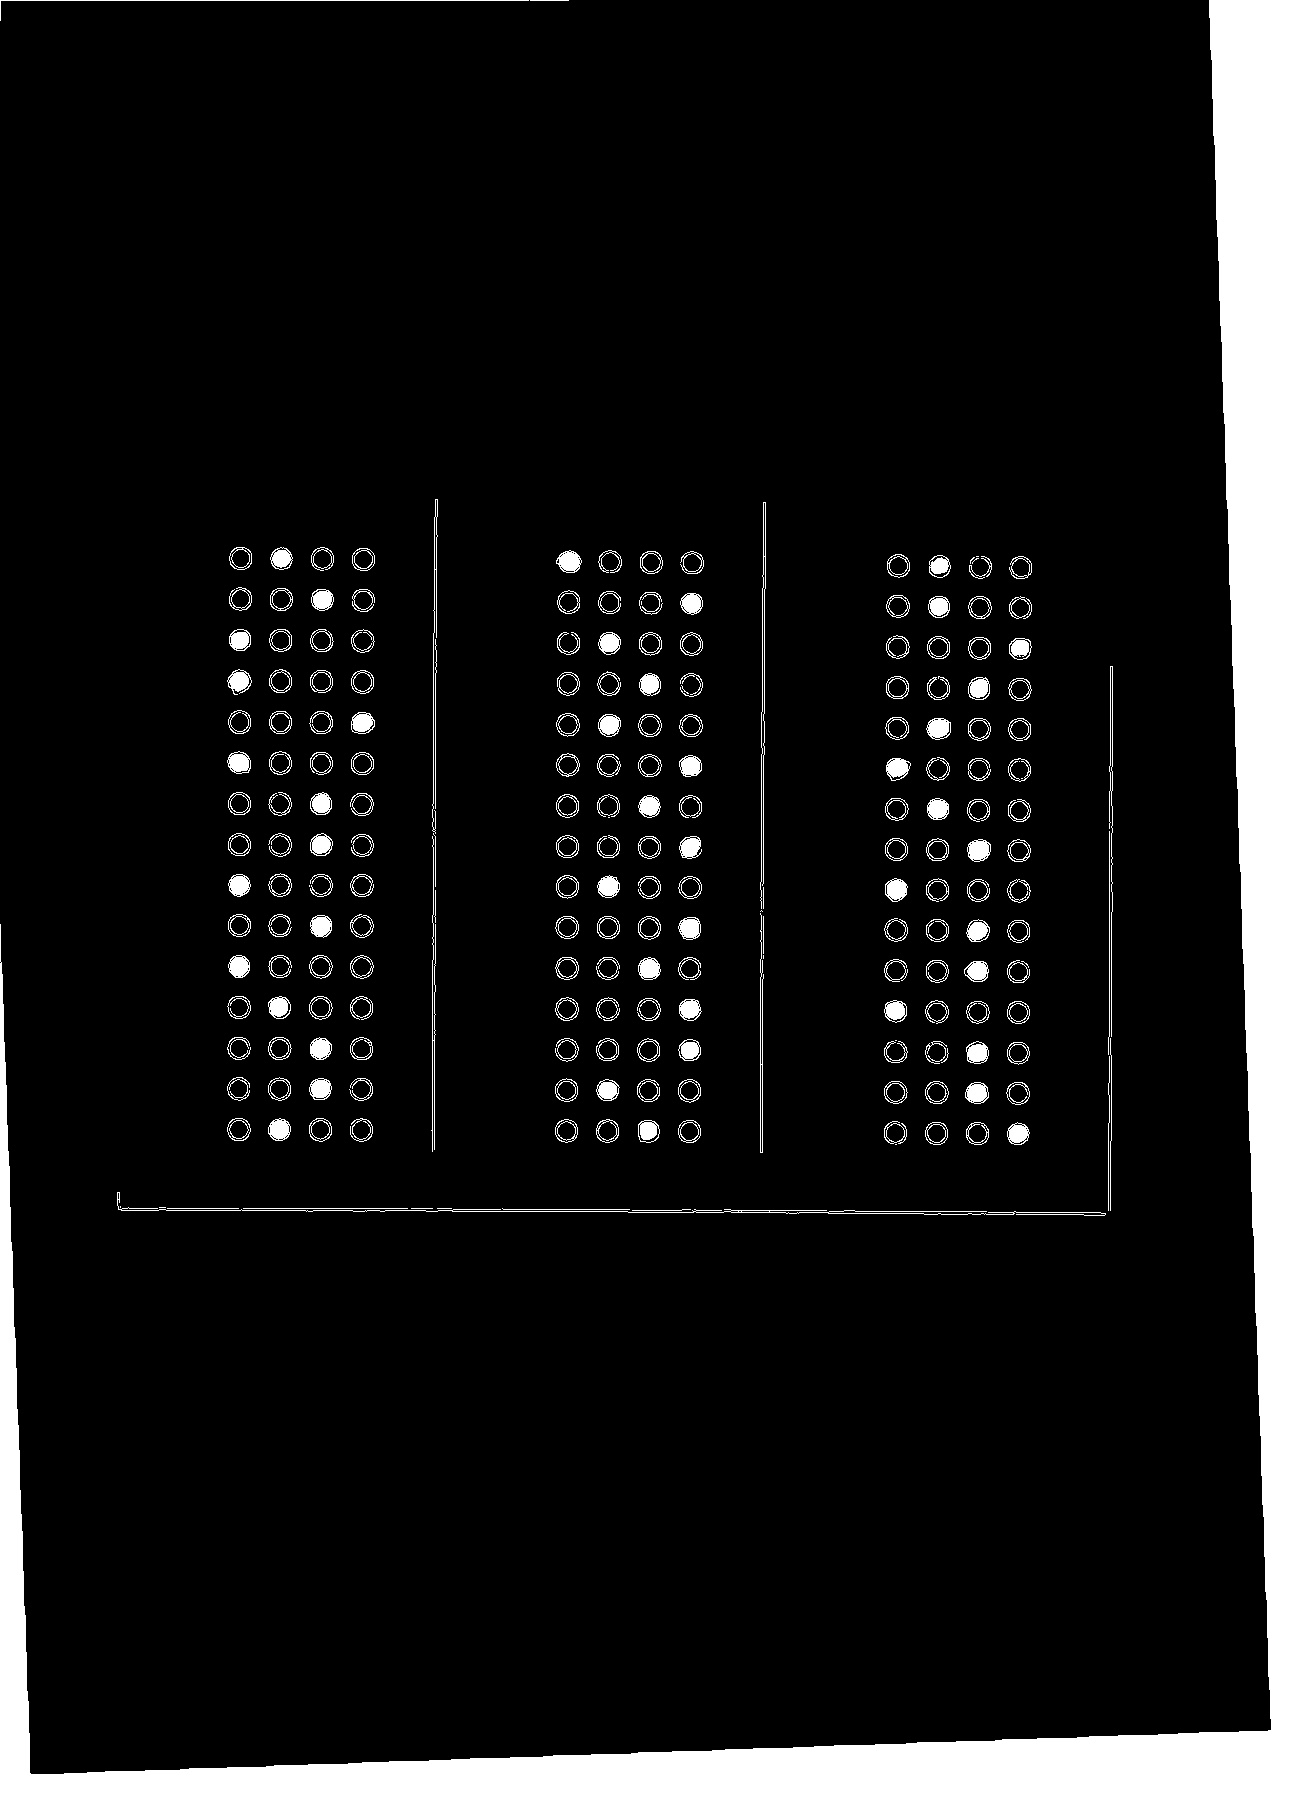
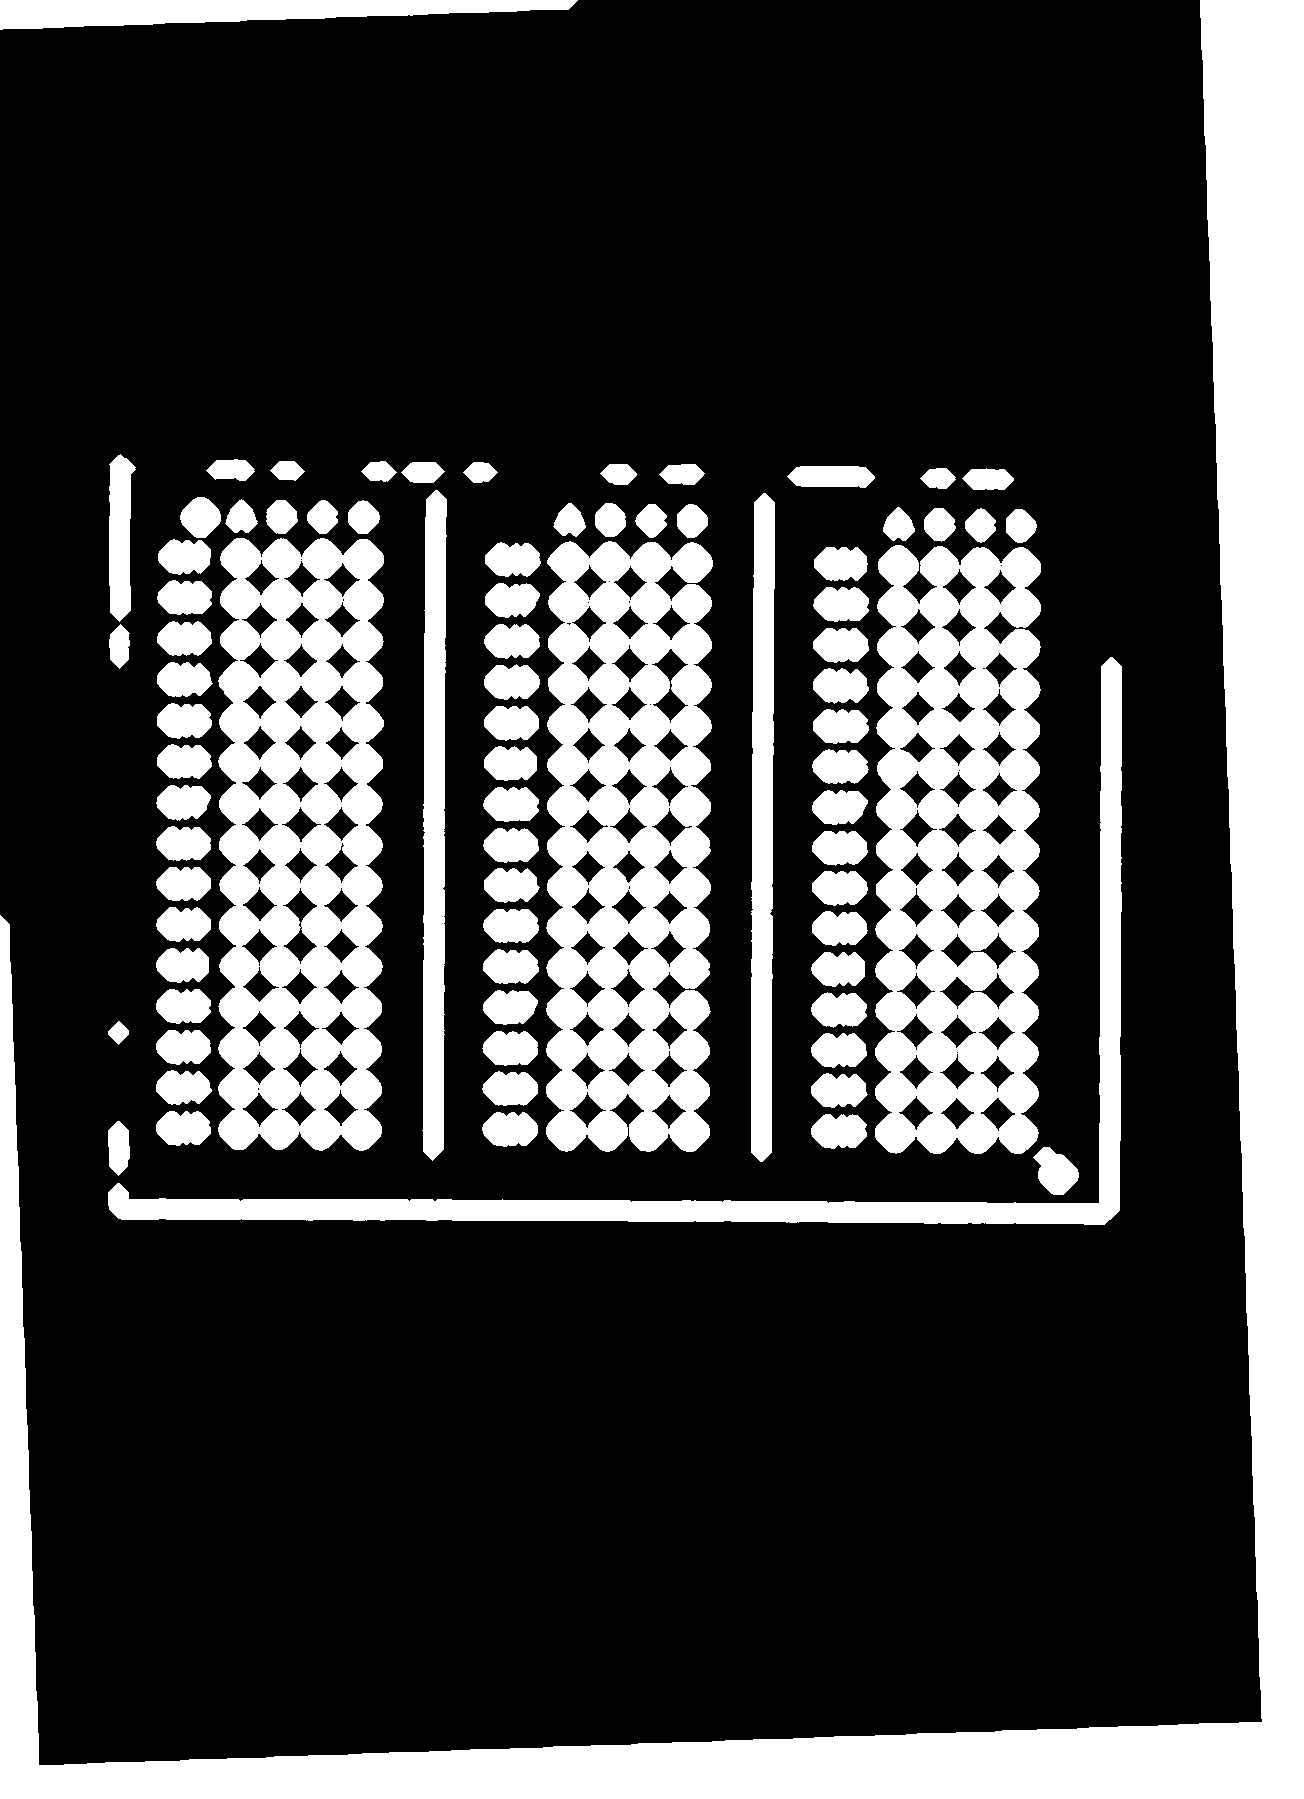
Shimaa Added contour detection to the processed binary image, sorting the question and grading. Grading isn't working accurately yet

diff --git a/main/main.py b/main/main.py
@@ -8,117 +8,137 @@ import imutils
 import cv2
 import math
 
-ANSWER_KEY = {0: 2, 1: 1, 2: 2, 3: 3, 4: 4}
+ANSWER_KEY = {0: 1, 1:0 , 2: 1, 3: 2, 4: 3}
+
 
 input_image = cv2.imread('1.png')
 
 gray = cv2.cvtColor(input_image, cv2.COLOR_BGR2GRAY)
 blurred = cv2.GaussianBlur(gray, (7, 7), 0)
-bilateralblur = cv2.bilateralFilter(gray, 9, 75, 75)
+bilateralblur = cv2.bilateralFilter(gray,9,75,75)
 
 edged = cv2.Canny(input_image, 75, 200)
-bilateraledged = cv2.Canny(bilateralblur, 75, 200)
+bilateraledged = cv2.Canny(bilateralblur,75,200)
 
 thresh = cv2.threshold(blurred, 0, 255,
-                       cv2.THRESH_BINARY + cv2.THRESH_OTSU)[1]
+    cv2.THRESH_BINARY + cv2.THRESH_OTSU)[1]
 
 thresh_edged = cv2.threshold(bilateralblur, 0, 255,
-                             cv2.THRESH_BINARY + cv2.THRESH_OTSU)[1]
+    cv2.THRESH_BINARY + cv2.THRESH_OTSU)[1]
 
-resImage = edged + (255 - thresh)
-cv2.imwrite("resImage.png", resImage)
+
+resImage = edged + (255-thresh)
+cv2.imwrite("resImage.png", resImage )
 
 # remove everything but the circles
 image = cv2.imread("resImage.png")
 mask = np.ones(image.shape[:2], dtype="uint8") * 255
-img2gray = cv2.cvtColor(image, cv2.COLOR_BGR2GRAY)
+img2gray = cv2.cvtColor(image,cv2.COLOR_BGR2GRAY)
 ret, mask = cv2.threshold(img2gray, 180, 255, cv2.THRESH_BINARY)
-image_final = cv2.bitwise_and(img2gray, img2gray, mask=mask)
-ret, new_img = cv2.threshold(image_final, 180, 255, cv2.THRESH_BINARY)  # for black text , cv.THRESH_BINARY_INV
+image_final = cv2.bitwise_and(img2gray , img2gray , mask =  mask)
+ret, new_img = cv2.threshold(image_final, 180 , 255, cv2.THRESH_BINARY)  # for black text , cv.THRESH_BINARY_INV
+  
+kernel = cv2.getStructuringElement(cv2.MORPH_CROSS,(3 , 3)) # to manipulate the orientation of dilution , large x means horizonatally dilating  more, large y means vertically dilating more 
+dilated = cv2.dilate(new_img,kernel,iterations = 9) # dilate , more the iteration more the dilation
 
-kernel = cv2.getStructuringElement(cv2.MORPH_CROSS, (3,
-                                                     3))  # to manipulate the orientation of dilution , large x means horizonatally dilating  more, large y means vertically dilating more
-dilated = cv2.dilate(new_img, kernel, iterations=9)  # dilate , more the iteration more the dilation
+cv2.imwrite('ndefa.jpg' , dilated)
 
-cv2.imwrite('ndefa.jpg', dilated)
-
-contourrs, hierarchy = cv2.findContours(dilated, cv2.RETR_EXTERNAL, cv2.CHAIN_APPROX_NONE)  # get contours
-index = 0
-questionCnts = []
-
+contourrs, hierarchy = cv2.findContours(dilated,cv2.RETR_EXTERNAL,cv2.CHAIN_APPROX_NONE) # get contours
+index = 0 
 for contour in contourrs:
-    # get rectangle bounding contour
-    [x, y, w, h] = cv2.boundingRect(contour)
-    ar = w / float(h)
-    # in order to label the contour as a question, region
-    # should be sufficiently wide, sufficiently tall, and
-    # have an aspect ratio approximately equal to 1
-    if w >= 3 and h >= 3 and ar >= 0.9 and ar <= 1.1:
-        questionCnts.append(contour)
-    # Don't plot small false positives that aren't text
-    if h > 500:
+    # # get rectangle bounding contour
+    [x,y,w,h] = cv2.boundingRect(contour)
+    # ar = w / float(h)
+    # # in order to label the contour as a question, region
+    # # should be sufficiently wide, sufficiently tall, and
+    # # have an aspect ratio approximately equal to 1
+    # if w >= 3 and h >= 3 and ar >= 0.9 and ar <= 1.1:
+    #     questionCnts.append(contour)
+    #Don't plot small false positives that aren't text
+    if  h > 500:
         continue
     # draw rectangle around contour on original image
     # cv2.rectangle(ima,(x,y),(x+w,y+h),(255,0,255),2)
     cv2.drawContours(mask, [contour], -1, 0, -1)
 
 ima = cv2.bitwise_and(image, image, mask=mask)
-cv2.imwrite('ndefa.jpg', ima)
-
+cv2.imwrite('ndefa.jpg' , ima)
 ###########################################
+gray = cv2.cvtColor(ima, cv2.COLOR_BGR2GRAY)
+blurred = cv2.GaussianBlur(gray, (7, 7), 0)
+bilateralblur = cv2.bilateralFilter(gray,9,75,75)
+
+edged = cv2.Canny(ima, 75, 200)
+bilateraledged = cv2.Canny(bilateralblur,75,200)
+
+thresh = cv2.threshold(blurred, 0, 255,
+    cv2.THRESH_BINARY + cv2.THRESH_OTSU)[1]
+
+thresh_edged = cv2.threshold(bilateralblur, 0, 255,
+    cv2.THRESH_BINARY + cv2.THRESH_OTSU)[1]
+
+cons, hierarchy = cv2.findContours(thresh_edged,cv2.RETR_EXTERNAL,cv2.CHAIN_APPROX_NONE) # get contours
+index = 0 
+questionCnts = []
+
+for contour in cons:
+    # get rectangle bounding contour
+    [x,y,w,h] = cv2.boundingRect(contour)
+    ar = w / float(h)
+    # in order to label the contour as a question, region
+    # should be sufficiently wide, sufficiently tall, and
+    # have an aspect ratio approximately equal to 1
+    if w>= 3 and h >= 3 and ar >= 0.8 and ar <= 1.2:
+        questionCnts.append(contour)
 
 # sort the question contours top-to-bottom, then initialize
 # the total number of correct answers
 questionCnts = contours.sort_contours(questionCnts,
-                                      method="top-to-bottom")[0]
+    method="top-to-bottom")[0]
 
-# get rid of the contours of the characters
-# questionCnts = questionCnts[3:]
+cv2.drawContours(ima, questionCnts, -1, (169,169,169), 3)
+cv2.imwrite("cont3.jpg", ima )
 
-cv2.drawContours(image, questionCnts, -1, (255, 255, 255), 3)
-cv2.imwrite("cont.jpg", image)
+#################################################
+correct = 0
+# each question has 4 possible answers, to loop over the
+# question in batches of 5
+for (q, i) in enumerate(np.arange(0, 20, 4)):
+    # sort the contours for the current question from
+    # left to right, then initialize the index of the
+    # bubbled answer
+    cnts = contours.sort_contours(questionCnts[i:i + 4])[0]
+    bubbled = None
+    # cv2.drawContours(resImage, cnts, -1, (255,0,0), 3)
+    # cv2.imwrite("cont.jpg", resImage )
+    # cv2.imshow("aaa",resImage)
+    # cv2.waitKey(0)
 
-
-
-# correct = 0
-# # each question has 4 possible answers, to loop over the
-# # question in batches of 5
-# for (q, i) in enumerate(np.arange(0, 20, 4)):
-#     # sort the contours for the current question from
-#     # left to right, then initialize the index of the
-#     # bubbled answer
-#     cnts = contours.sort_contours(questionCnts[i:i + 4])[0]
-#     bubbled = None
-#     # cv2.drawContours(resImage, cnts, -1, (255,0,0), 3)
-#     # cv2.imwrite("cont.jpg", resImage )
-#     # cv2.imshow("aaa",resImage)
-#     # cv2.waitKey(0)
-
-#     # loop over the sorted contours
-#     for (j, c) in enumerate(cnts):
-#         # construct a mask that reveals only the current
-#         # "bubble" for the question
-#         mask = np.zeros(thresh.shape, dtype="uint8")
-#         cv2.drawContours(mask, [c], -1, 255, -1)
-
-#             # apply the mask to the thresholded image, then
-#             # count the number of non-zero pixels in the
-#             # bubble area
-#         mask = cv2.bitwise_and(thresh, thresh, mask=mask)
-#         total = cv2.countNonZero(mask)
-
-#             # if the current total has a larger number of total
-#             # non-zero pixels, then we are examining the currently
-#             # bubbled-in answer
-#         if bubbled is None or total > bubbled[0]:
-#             bubbled = (total, j)
-#             # initialize the contour color and the index of the
-#             # *correct* answer
-#     color = (0, 0, 255)
-#     k = ANSWER_KEY[q]
-#     print(k, bubbled[1])
-#     # check to see if the bubbled answer is correct
-#     if k == bubbled[1]:
-#         color = (0, 255, 0)
-#         correct += 1
-# print(correct)
+    # loop over the sorted contours
+    for (j, c) in enumerate(cnts):
+        # construct a mask that reveals only the current
+        # "bubble" for the question
+        mask = np.zeros(thresh.shape, dtype="uint8")
+        cv2.drawContours(mask, [c], -1, 255, -1)
+     
+        # apply the mask to the thresholded image, then
+        # count the number of non-zero pixels in the
+        # bubble area
+        mask = cv2.bitwise_and(thresh, thresh, mask=mask)
+        total = cv2.countNonZero(mask)
+     
+        # if the current total has a larger number of total
+        # non-zero pixels, then we are examining the currently
+        # bubbled-in answer
+        if bubbled is None or total > bubbled[0]:
+            bubbled = (total, j)
+            # initialize the contour color and the index of the
+            # *correct* answer
+    color = (0, 0, 255)
+    k = ANSWER_KEY[q]
+    print(k, bubbled[1])     
+    # check to see if the bubbled answer is correct
+    if k == bubbled[1]:
+        color = (0, 255, 0)
+        correct += 1
+print(correct)
